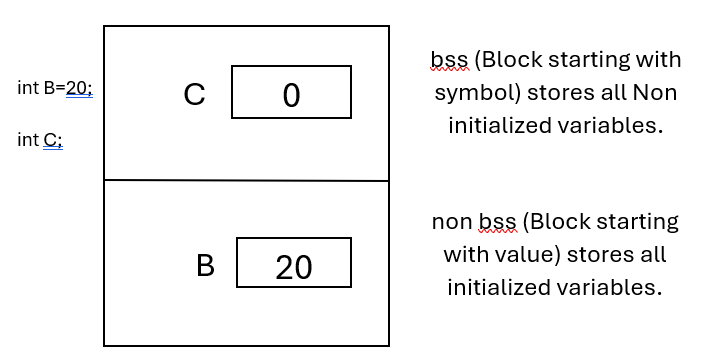
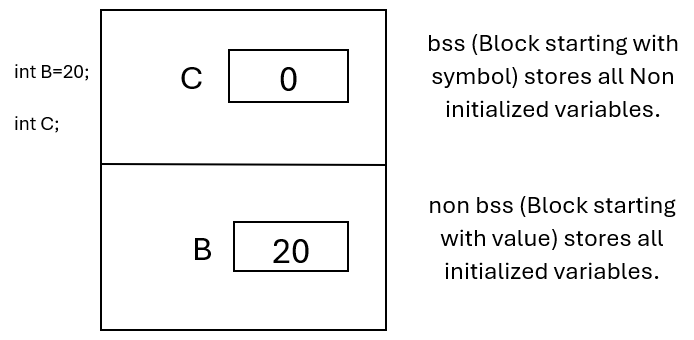
Added Storage class program

diff --git a/Storage_Classes/SC_README.md b/Storage_Classes/SC_README.md
@@ -51,18 +51,19 @@ There are 4 storage classes in C & C++.
 
 ## • Extern Storage Class:
 
-1. Extern is a storage class which is applicable to the global variables used in the program.
-2. If we apply extern storage class to the variable, then the value of that variable gets accessed from one file to another file.
-3. If the variable is created globally then the default storage class of that variable is extern.
-4. The extern keyword is used if we want to access the global variable from one file into another file.
-5. All the global variables get the memory inside data section.
-6. The Data section is divided into two parts:
-   --bss (Block starting with symbol):
-   This section contains all about non initialized global variables.
-   --non bss (Block starting with value):
-   It contains the initialized global variables.
+• Declaration VS. Definition:
+-- Declaration:
+Declaration is considered as such a place in the program which just notifies about the name of variable, its data type. In case of declaration there is no memory allocation. If the variable is created with the ‘extern’ keyword then it is considered as the declaration.
+Eg: extern int A;
 
-   ![bss image](./bss.png)
+Note: We can’t initialize the variable with extern keyword because there is no memory allocation.
+
+-- Definition:
+Definition is a statement where the name of variable, its data type, its value gets identified and at that point the memory for the variable is also allocated.
+Eg: int No = 11; ---definition
+Int x; ---definition
+
+![bss image](./bss.png)
 
 ---
 
